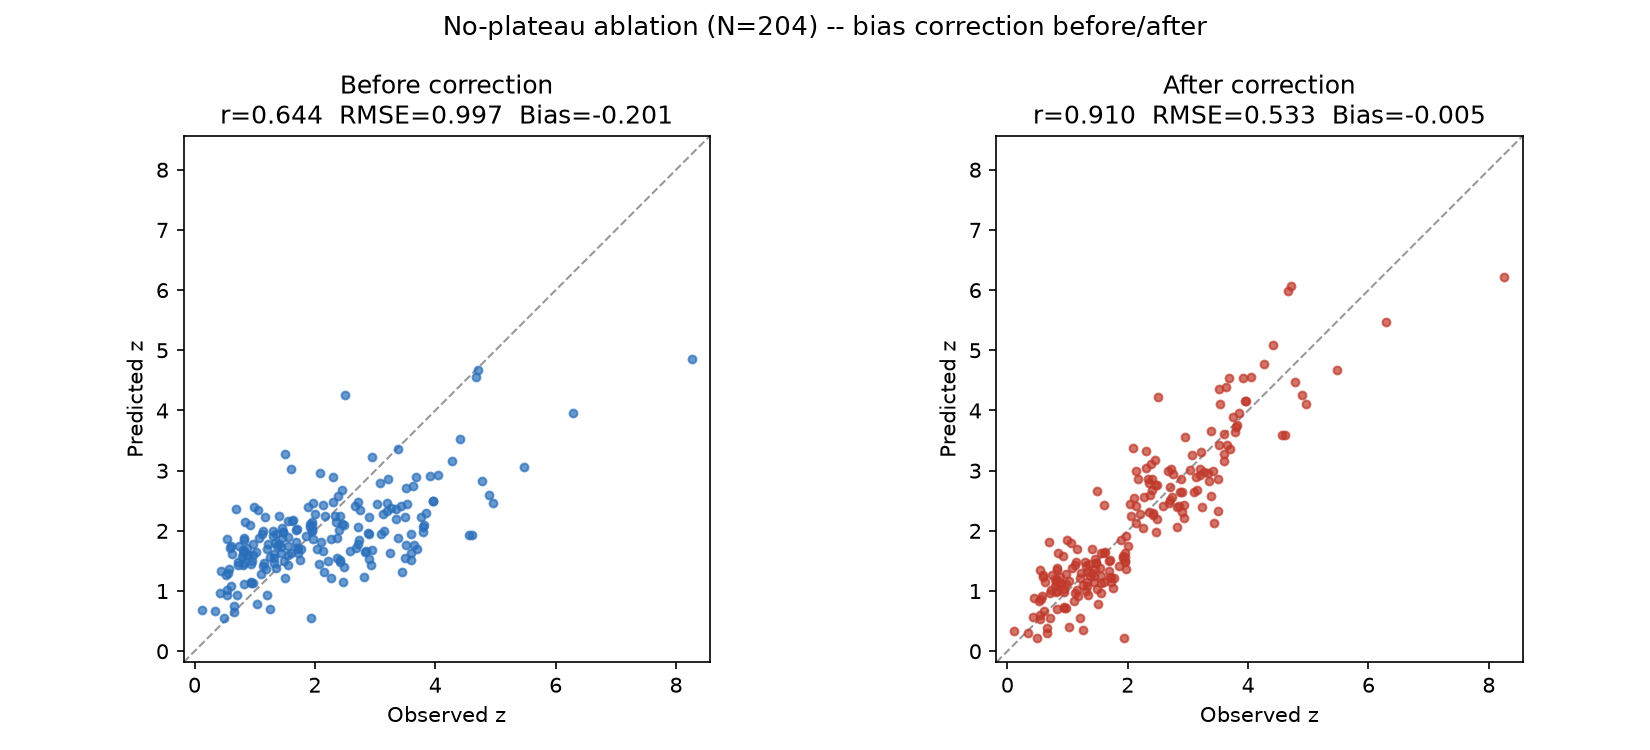
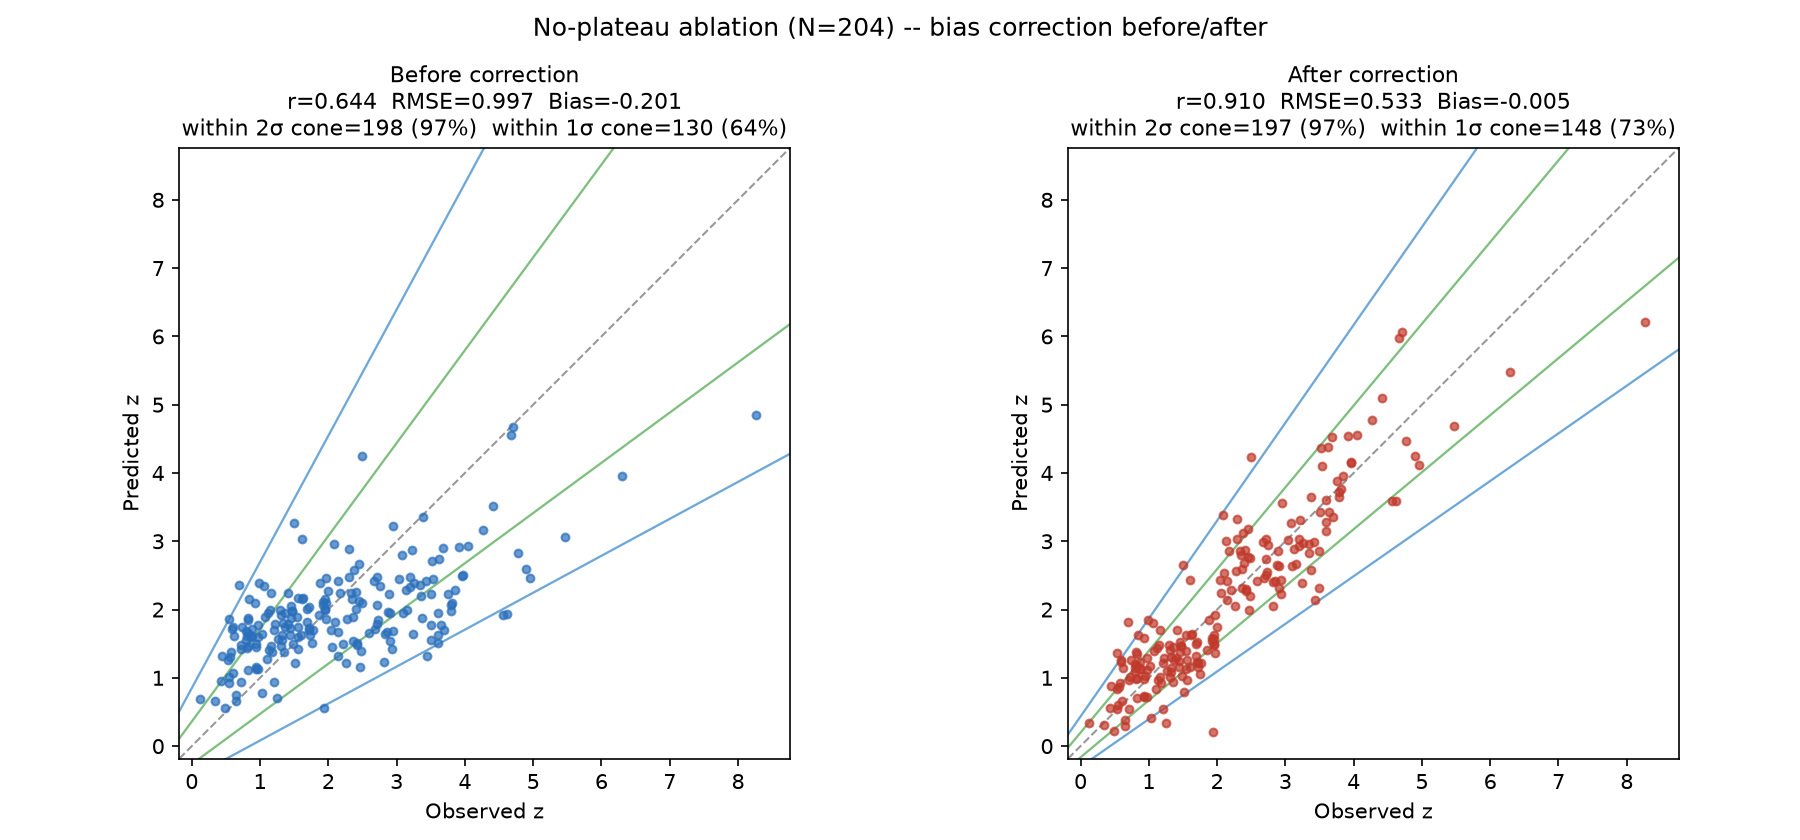
Add sigma-cone stats to bias correction, matching the pipeline's standard convention
Every other result in this repo reports the 1-sigma/2-sigma "cone" diagnostic
from Result_plot_maker.R (catastrophic-outlier convention: a point is inside
the 2-sigma cone if |observed - predicted| < 2*sd(residuals) on the log10(z+1)
scale). This was missing from the bias-correction writeup. Added cone stats
computed before and after correction for all three paper-candidate results,
a new cone_stats_table.png, and cone-boundary overlays on the before/after
scatter plots matching the pipeline's linear-z plot convention exactly.

diff --git a/paper_candidate_results/bias_correction/README.md b/paper_candidate_results/bias_correction/README.md
@@ -54,9 +54,39 @@ the standard step the paper itself applies before reporting its headline
 number, and skipping it would understate how well the underlying model does
 once its systematic, redshift-range-dependent compression is corrected for.
 
+## Sigma cones — the pipeline's standard catastrophic-outlier convention
+
+Every other result in this repo (e.g. the main Theil-Sen plot's "within 2σ
+cone = 199 (97%)") is reported alongside this pipeline's standard 1σ/2σ
+"sigma cone" diagnostic (`Result_plot_maker.R`): fit `L_Sigma = sd(Dlogz)`
+where `Dlogz = observed − predicted` log10(z+1), then a point is "inside the
+2σ cone" if `|Dlogz| < 2·L_Sigma` (likewise for 1σ). This was missing from
+the first pass of this bias-correction writeup — added below, computed
+separately before and after correction (each state gets its own `L_Sigma`,
+matching how the pipeline always computes it fresh per result).
+
+| Result | N | Sigma before→after | Within 2σ before→after | Within 1σ before→after |
+|---|---|---|---|---|
+| Theil-Sen single-var (MAIN RESULT) | 206 | 0.126→0.082 | 199 (97%)→195 (95%) | 133 (65%)→141 (68%) |
+| No-plateau ablation | 204 | 0.133→0.078 | 198 (97%)→197 (97%) | 130 (64%)→148 (73%) |
+| Multivariate emcee | 202 | 0.118→0.073 | 195 (97%)→193 (96%) | 133 (66%)→139 (69%)|
+
+**Why the 2σ count doesn't simply go up too**: the cone is defined *relative
+to the sample's own residual spread*, not an absolute error tolerance.
+Correction shrinks `Sigma` itself by ~35-40% (residuals genuinely tighten),
+so the "2σ" window shrinks right along with it — a few points that were
+comfortably inside the old, wider band now sit just outside the new,
+narrower one, even though every point's absolute error went down. The 1σ
+count is the more informative number here and it improves consistently
+(65%→68%, 64%→73%, 66%→69%): a larger share of the sample now lands within
+one (now-tighter) sigma of the 1:1 line. The `*_before_after.png` scatter
+plots show both cone boundaries (2σ blue, 1σ green) directly, matching the
+pipeline's linear-z plot convention exactly.
+
 ## Files
 
-- `summary_table.png` — the before/after comparison table
+- `summary_table.png` — the before/after r/RMSE/Bias/NMAD comparison table
+- `cone_stats_table.png` — the before/after sigma-cone comparison table
 - `1_theilsen_before_after.png`, `2_noplateau_before_after.png`,
   `3_multivariate_emcee_before_after.png` — predicted-vs-observed scatter,
-  before and after, side by side
+  before and after, side by side, with 1σ/2σ cone boundaries drawn
